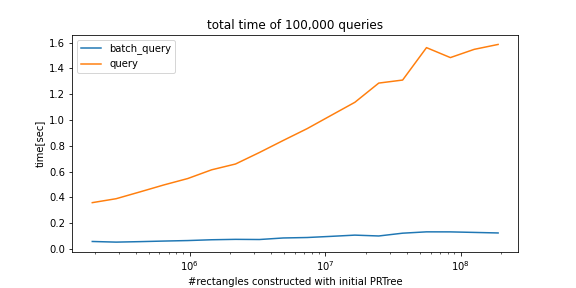
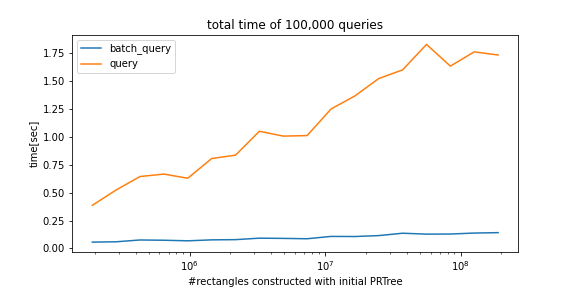
double to float. more parallel for

diff --git a/cpp/prtree.h b/cpp/prtree.h
@@ -16,6 +16,7 @@
 #include <mutex>
 #include <thread>
 #include <future>
+#include <functional>
 #include <cstdlib>
 #include <pybind11/pybind11.h>
 #include <pybind11/numpy.h>
@@ -29,6 +30,7 @@
 #include <cereal/types/vector.hpp>
 #include <cereal/types/unordered_map.hpp>
 
+#include "parallel.h"
 
 
 namespace py = pybind11;
@@ -69,12 +71,12 @@ class Uncopyable {
 
 class BB{
   public:
-    double xmin, xmax, ymin, ymax;
+    float xmin, xmax, ymin, ymax;
     BB() {
       clear();
     }
 
-    BB(const double& _xmin, const double& _xmax, const double& _ymin, const double& _ymax){
+    BB(const float& _xmin, const float& _xmax, const float& _ymin, const float& _ymax){
       if (unlikely(_xmin > _xmax || _ymin > _ymax)){
         throw std::runtime_error("Impossible rectange was given. xmin < xmax and ymin < ymax must be satisfied.");
       }
@@ -103,7 +105,7 @@ class BB{
       return *this;
     }
 
-    inline void expand(const double& dx, const double& dy){
+    inline void expand(const float& dx, const float& dy){
       xmin -= dx;
       xmax += dx;
       ymin -= dy;
@@ -116,7 +118,7 @@ class BB{
       return unlikely(c1 && c2);
     }
 
-    inline double operator [](const int& i)const{
+    inline float operator [](const int& i)const{
       if (i == 0){
         return xmin;
       } else if (i == 1){
@@ -388,25 +390,15 @@ class PseudoPRTree : Uncopyable{
     }
 
     std::pair<DataType<int>*, DataType<int>*> as_X(void* placement, const int hint){
-      const size_t nthreads = std::max(1, (int) std::thread::hardware_concurrency());
       DataType<int> *b, *e;
       auto children = get_all_leaves(hint);
       int total = children.size();
       b = (DataType<int>*)placement;
       e = b + total;
-      {
-        vec<std::thread> threads(nthreads);
-        for (int t = 0; t < nthreads; t++){
-          threads[t] = std::thread(std::bind(
-            [&](const int bi, const int ei, const int t){
-              for (int i = bi; i < ei; i++){
-                new(b + i) DataType<int>{i, children[i]->mbb};
-              }
-            }, t * total/nthreads, unlikely((t+1)==nthreads)?total:(t+1)*total/nthreads, t)
-          );
-        }
-        std::for_each(threads.begin(), threads.end(), [&](std::thread& x){x.join();});
-      }
+      parallel_for_each(b, e, [&](auto& p){
+          int i = &p - b;
+          new(b + i) DataType<int>{i, children[i]->mbb};
+          });
       return {b, e};
     }
 };
@@ -488,8 +480,7 @@ class PRTree : Uncopyable{
       }
     }
 
-
-    PRTree(const py::array_t<T>& idx, const py::array_t<double>& x){
+    PRTree(const py::array_t<T>& idx, const py::array_t<float>& x){
       const auto &buff_info_idx = idx.request();
       const auto &shape_idx = buff_info_idx.shape;
       const auto &buff_info_x = x.request();
@@ -505,22 +496,30 @@ class PRTree : Uncopyable{
       DataType<T> *b, *e;
       void *placement = std::malloc(std::max(sizeof(DataType<T>), sizeof(DataType<int>)) * length);
       b = (DataType<T>*)placement;
-      e = b;
-      for (size_t i = 0; i < length; i++){
+      e = b + length;
+
+      parallel_for_each(b, e,
+          [&](auto& it){
+            int i = &it - b;
+            auto bb = BB(*x.data(i, 0), *x.data(i, 1), *x.data(i, 2), *x.data(i, 3));
+            new(b + i) DataType<T>{*idx.data(i), bb};
+          });
+
+      auto build_umap = [&]{for (size_t i = 0; i < length; i++){
         auto bb = BB(*x.data(i, 0), *x.data(i, 1), *x.data(i, 2), *x.data(i, 3));
-
-        new(e) DataType<T>{*idx.data(i), bb};
-        e++;
-
         umap.emplace_hint(umap.end(), *idx.data(i), std::move(bb));
-      }
+      }};
+
       //ProfilerStart("construct.prof");
-      build(b, e, placement);
+      auto t1 = std::thread(build_umap);
+      auto t2 = std::thread([&]{build(b, e, placement);});
+      t1.join();
+      t2.join();
       //ProfilerStop();
       std::free(placement);
     }
 
-    void insert(const T& idx, const py::array_t<double>& x){
+    void insert(const T& idx, const py::array_t<float>& x){
       vec<Leaf<T, B>*> cands;
       std::queue<PRTreeNode<T, B>*, std::deque<PRTreeNode<T, B>*>> que;
       BB bb;
@@ -538,9 +537,9 @@ class PRTree : Uncopyable{
       }
 
       bb = BB(*x.data(0), *x.data(1), *x.data(2), *x.data(3));
-      double dx = bb.xmax - bb.xmin + 0.000000001;
-      double dy = bb.ymax - bb.ymin + 0.000000001;
-      double c = 0.0;
+      float dx = bb.xmax - bb.xmin + 0.000000001;
+      float dy = bb.ymax - bb.ymin + 0.000000001;
+      float c = 0.0;
       std::stack<PRTreeNode<T, B>*> sta;
       while (likely(cands.size() == 0)){
         while (likely(!sta.empty())){
@@ -600,16 +599,17 @@ class PRTree : Uncopyable{
 
     template<class iterator>
     void build(iterator b, iterator e, void *placement){
-      const int nthreads = std::max(1, (int) std::thread::hardware_concurrency());
       vec<Leaf<int, B>*> leaves;
       vec<std::unique_ptr<PRTreeNode<T, B>>> tmp_nodes, prev_nodes;
       std::unique_ptr<PRTreeNode<T, B>> p, q, r;
 
       auto first_tree = PseudoPRTree<T, B>(b, e);
-      for (auto& leaf : first_tree.get_all_leaves(e - b)){
-        p = std::make_unique<PRTreeNode<T, B>>(leaf);
-        prev_nodes.emplace_back(std::move(p));
-      }
+      auto first_leaves = first_tree.get_all_leaves(e - b);
+      parallel_for_each(first_leaves.begin(), first_leaves.end(), prev_nodes,
+            [&](auto& leaf, auto& o){
+              auto pp = std::make_unique<PRTreeNode<T, B>>(leaf);
+              o.emplace_back(std::move(pp));
+            });
 
       auto [bb, ee] = first_tree.as_X(placement, e - b);
       while (likely(prev_nodes.size() > 1)){
@@ -619,18 +619,9 @@ class PRTree : Uncopyable{
         tmp_nodes.clear();
         tmp_nodes.reserve(leaves_size);
 
-        vec<decltype(tmp_nodes)> out_privates(nthreads);
-        {
-          vec<std::thread> threads(nthreads);
-          for (auto& o : out_privates){
-            o.reserve(leaves_size/nthreads*2);
-          }
-          for (int t = 0; t < nthreads; t++){
-            threads[t] = std::thread(std::bind(
-                  [&](const int bi, const int ei, const int t){
-                  for (size_t k = bi; k < ei; k++){
+        parallel_for_each(leaves.begin(), leaves.end(), tmp_nodes,
+                  [&](auto& leaf, auto& o){
                     int idx, jdx;
-                    auto& leaf = leaves[k];
                     int len = leaf->data.size();
                     auto pp = std::make_unique<PRTreeNode<T, B>>(leaf->mbb);
                     if (likely(!leaf->data.empty())){
@@ -642,21 +633,11 @@ class PRTree : Uncopyable{
                       idx = leaf->data[0].first;
                       pp->head = std::move(prev_nodes[idx]);
                       if (!pp->head){throw std::runtime_error("ppp");}
-                      out_privates[t].emplace_back(std::move(pp));
+                      o.emplace_back(std::move(pp));
                     } else {
                       throw std::runtime_error("what????");
                     }
-                  }
-                }, t*leaves_size/nthreads, unlikely((t+1)==nthreads)?leaves_size:(t+1)*leaves_size/nthreads, t));
-          }
-          std::for_each(threads.begin(), threads.end(), [&](std::thread& x){x.join();});
-
-          for (int t = 0; t < nthreads; t++){
-            tmp_nodes.insert(tmp_nodes.end(),
-                std::make_move_iterator(out_privates[t].begin()),
-                std::make_move_iterator(out_privates[t].end()));
-          }
-        }
+                  });
 
         {
           auto tmp = tree.as_X(placement, ee - bb);
@@ -687,7 +668,7 @@ class PRTree : Uncopyable{
     }
     
 
-    auto find_all(const py::array_t<double>& x){
+    auto find_all(const py::array_t<float>& x){
       const auto &buff_info_x = x.request();
       const auto &ndim= buff_info_x.ndim;
       const auto &shape_x = buff_info_x.shape;
@@ -711,35 +692,13 @@ class PRTree : Uncopyable{
         }
       }
       size_t length = X.size();
-      const int nthreads = std::max(1, (int) std::thread::hardware_concurrency());
-      vec<vec<vec<T>>> out_privates(nthreads);
-      {
-        vec<std::thread> threads(nthreads);
-        for (auto& o : out_privates){
-          o.reserve(length/nthreads+1);
-        }
-        for (int t = 0; t < nthreads; t++){
-          threads[t] = std::thread(std::bind(
-                [&](const int bi, const int ei, const int t){
-                for (int i = bi; i < ei; i++){
-                  out_privates[t].emplace_back(std::move(find(X[i])));
-                }
-              }, t*length/nthreads, unlikely((t+1)==nthreads)?length:(t+1)*length/nthreads, t));
-        }
-        std::for_each(threads.begin(), threads.end(), [&](std::thread& x){x.join();});
-      }
       vec<vec<T>> out;
       out.reserve(length);
-      for (int t = 0; t < nthreads; t++){
-        out.insert(out.end(),
-            std::make_move_iterator(out_privates[t].begin()),
-            std::make_move_iterator(out_privates[t].end()));
-        vec<vec<T>>().swap(out_privates[t]);
-      }
+      parallel_for_each(X.begin(), X.end(), out, [&](const BB& x, auto& o){o.emplace_back(find(x));});
       return out;
     }
 
-    vec<T> find_one(const py::array_t<double>& x){
+    vec<T> find_one(const py::array_t<float>& x){
       const auto &buff_info_x = x.request();
       const auto &ndim= buff_info_x.ndim;
       const auto &shape_x = buff_info_x.shape;

diff --git a/cpp/parallel.h b/cpp/parallel.h
@@ -1,0 +1,70 @@
+#pragma once
+#include <vector>
+#include <mutex>
+#include <thread>
+#include <algorithm>
+#include <iostream>
+
+
+template<typename U>
+using vec = std::vector<U>;
+
+template<typename F, typename Iter, typename T>
+void parallel_for_each(const Iter first, const Iter last, T& result, const F& func){
+  auto f = std::ref(func);
+  const int nthreads = std::max(1, (int) std::thread::hardware_concurrency());
+  const size_t total = std::distance(first, last);
+  vec<T> rr(nthreads);
+  {
+    vec<std::thread> threads;
+    vec<Iter> iters;
+    auto step = total / nthreads;
+    auto remaining = total % nthreads;
+    auto n = first;
+    iters.emplace_back(first);
+    for (int i = 0; i < nthreads - 1; ++i){
+      std::advance(n, i<remaining?step+1:step);
+      iters.emplace_back(n);
+    }
+    iters.emplace_back(last);
+
+    result.reserve(total);
+    for (auto&& r : rr){
+      r.reserve(total/nthreads+1);
+    }
+    for (int t = 0; t < nthreads; t++){
+      threads.emplace_back(std::thread([&,t]{std::for_each(iters[t], iters[t+1], [&](auto& x){f(x, rr[t]);});}));
+    }
+    std::for_each(threads.begin(), threads.end(), [&](std::thread& x){x.join();});
+  }
+  for (int t = 0; t < nthreads; t++){
+    result.insert(result.end(),
+      std::make_move_iterator(rr[t].begin()),
+      std::make_move_iterator(rr[t].end()));
+  }
+}
+
+
+template<typename F, typename Iter>
+void parallel_for_each(const Iter first, const Iter last, const F& func){
+  auto f = std::ref(func);
+  const int nthreads = std::max(1, (int) std::thread::hardware_concurrency());
+  const size_t total = std::distance(first, last);
+  {
+    vec<std::thread> threads;
+    vec<Iter> iters;
+    auto step = total / nthreads;
+    auto remaining = total % nthreads;
+    auto n = first;
+    iters.emplace_back(first);
+    for (int i = 0; i < nthreads - 1; ++i){
+      std::advance(n, i<remaining?step+1:step);
+      iters.emplace_back(n);
+    }
+    iters.emplace_back(last);
+    for (int t = 0; t < nthreads; t++){
+      threads.emplace_back(std::thread([&,t]{std::for_each(iters[t], iters[t+1], [&](auto& x){f(x);});}));
+    }
+    std::for_each(threads.begin(), threads.end(), [&](std::thread& x){x.join();});
+  }
+}

diff --git a/cpp/main.cc b/cpp/main.cc
@@ -17,7 +17,7 @@ PYBIND11_MODULE(PRTree, m) {
     )pbdoc";
 
     py::class_<PRTree<T, B>>(m, "PRTree")
-        .def(py::init<py::array_t<T>, py::array_t<double>>(), R"pbdoc(
+        .def(py::init<py::array_t<T>, py::array_t<float>>(), R"pbdoc(
           Construct PRTree with init.
         )pbdoc")
         .def(py::init<>(), R"pbdoc(

diff --git a/setup.py b/setup.py
@@ -80,7 +80,7 @@ class CMakeBuild(build_ext):
 
 setup(
     name='python_prtree',
-    version='0.3.2',
+    version='0.3.3',
     license='MIT',
     description='Python implementation of Priority R-Tree',
     author='atksh',
